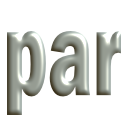
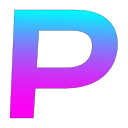
New artwork

diff --git a/README.md b/README.md
@@ -1,11 +1,26 @@
 # parol-vscode README
 
-This is a VS Code extension to supports [`parol`](https://github.com/jsinger67/parol.git)'s syntax of grammar description files (.par files).
+<!-- markdownlint-disable Inline HTML -->
+<br>
+<img src="./icons/parol-vscode-300x300.png" alt="Logo" height=300 with=300>
+<br><br><br>
+<!-- markdownlint-enable Inline HTML -->
+
+This is a VS Code extension to supports [`parol`](https://github.com/jsinger67/parol.git)'s syntax
+of grammar description files (.par files).
 
 ## Features
 
-The extension currently only supports syntax highlighting and folding. Nevertheless these are very helpful features that can improve your workflow a lot.
+The extension currently only supports syntax highlighting, folding and language icons. Nevertheless
+these are very helpful features that can improve your workflow a lot.
 
 Further development on this extension is planned.
 
-Have fun!
+## Installation
+
+Download the vsix package from the latest release and install it with
+
+> ```code --install-extension ./parol-vscode-x.y.z.vsix```
+
+This extension provides syntax highlighting, folding and language icons and will surely be useful
+for you.

diff --git a/vsc-extension-quickstart.md b/vsc-extension-quickstart.md
@@ -23,6 +23,17 @@
 
 * To add features such as intellisense, hovers and validators check out the VS Code extenders documentation at https://code.visualstudio.com/docs
 
+## Package and publish your extension
+
+```shell
+npm install -g vsce
+cd myExtension
+vsce package
+# myExtension.vsix generated
+vsce publish
+# <publisherID>.myExtension published to VS Code Marketplace```
+```
+
 ## Install your extension
 
 * To start using your extension with Visual Studio Code copy it into the `<user home>/.vscode/extensions` folder and restart Code.

diff --git a/CHANGELOG.md b/CHANGELOG.md
@@ -4,6 +4,15 @@ All notable changes to the "parol-vscode" extension will be documented in this f
 
 Check [Keep a Changelog](http://keepachangelog.com/) for recommendations on how to structure this file.
 
+## v0.1.4
+
+* New artwork
+* Support of new language features of parol v0.10.2
+
+## v0.1.3
+
+* Add support for cut operator of parol v0.9.4
+
 ## v0.1.0
 
 * Initial release
